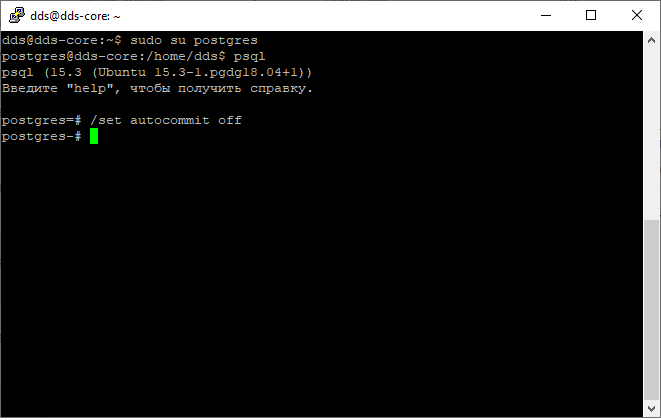
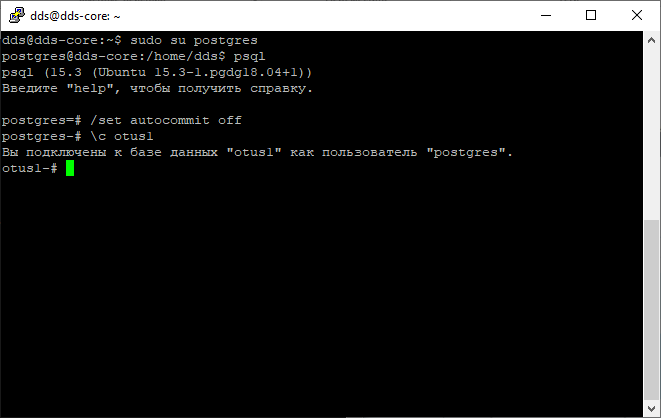
Task compleated

Changed region(s): [[0.0, 0.3095, 0.7867, 0.4333], [0.0, 0.9905, 0.5144, 1.0], [0.9985, 0.3095, 1.0, 0.4333]]

diff --git a/task1.md b/task1.md
@@ -7,6 +7,45 @@
   Подключение по *ssh* осуществляется по средствам *putty*
 
 1) В двух консолях открыто подключение к серверу PG. Установлен **AUTOCOMMIT** в **OFF**
+Установлено подключение к лабораторной БД. Созданы таблицы.
 
-![Одна собака](IMG/01.png "Собака смотрит влево")
+![имг01](IMG/01.png "имг01")
+
+> Посмотреть текущий уровень изоляции: show transaction isolation level
+
+Текущий уровень **read commited**
+ 
+> начать новую транзакцию в обоих сессиях с дефолтным (не меняя) уровнем изоляции<br>
+> в первой сессии добавить новую запись insert into persons(first_name, second_name) values('sergey', 'sergeev');<br>
+> сделать select * from persons во второй сессии<br>
+
+![Первая проверка](IMG/02.png "Первая проверка")
+
+Во второй сессии результат не содержит новой записи, т.к. при текущем уровне изоляции она будет добавлена только после **commit**
+
+> завершить первую транзакцию - commit; <br>
+> видите ли вы новую запись и если да то почему? <br>
+> сделать select * from persons во второй сессии <br>
+
+![Результат коммита](IMG/03.png "Результат коммита")
+
+Теперь запись появилась, так-как транзакция приенена и запись теперь доступна для чтения как сохраненная
+
+> начать новые но уже repeatable read транзации - set transaction isolation level repeatable read;<br>
+> в первой сессии добавить новую запись insert into persons(first_name, second_name) values('sveta', 'svetova');<br>
+> сделать select * from persons во второй сессии<br>
+> видите ли вы новую запись и если да то почему?<br>
+
+![repeatable read](IMG/04.png "repeatable read p1")
+
+Новые записи отсутствуют - т.к. транзакция не завершена в сессии добавления данных.
+
+![repeatable read](IMG/05.png "repeatable read p2")
+
+*REPEATABLE READ* удерживает блокировки каждой затронутой строки до окончания транзакций, мы видим данные на момент открытия транзакции. 
+
+![repeatable read](IMG/06.png "repeatable read p2")
+
+Завершение транзакции в сессии чтения, и начало новой транзакции выводит уже обновленные данные
+
 
